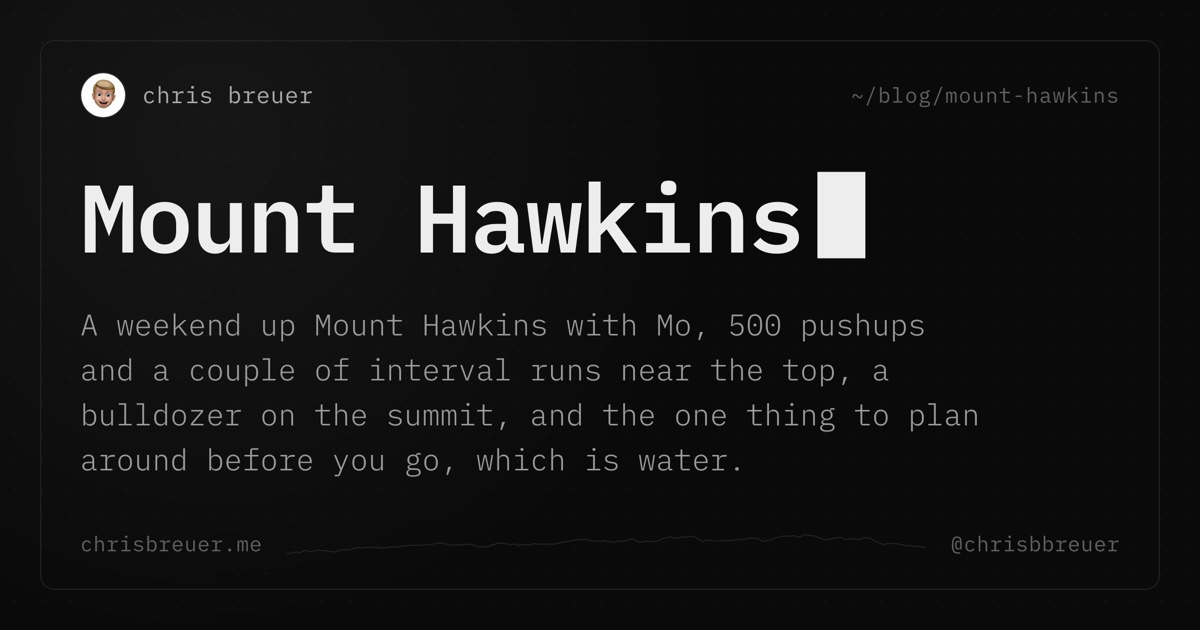
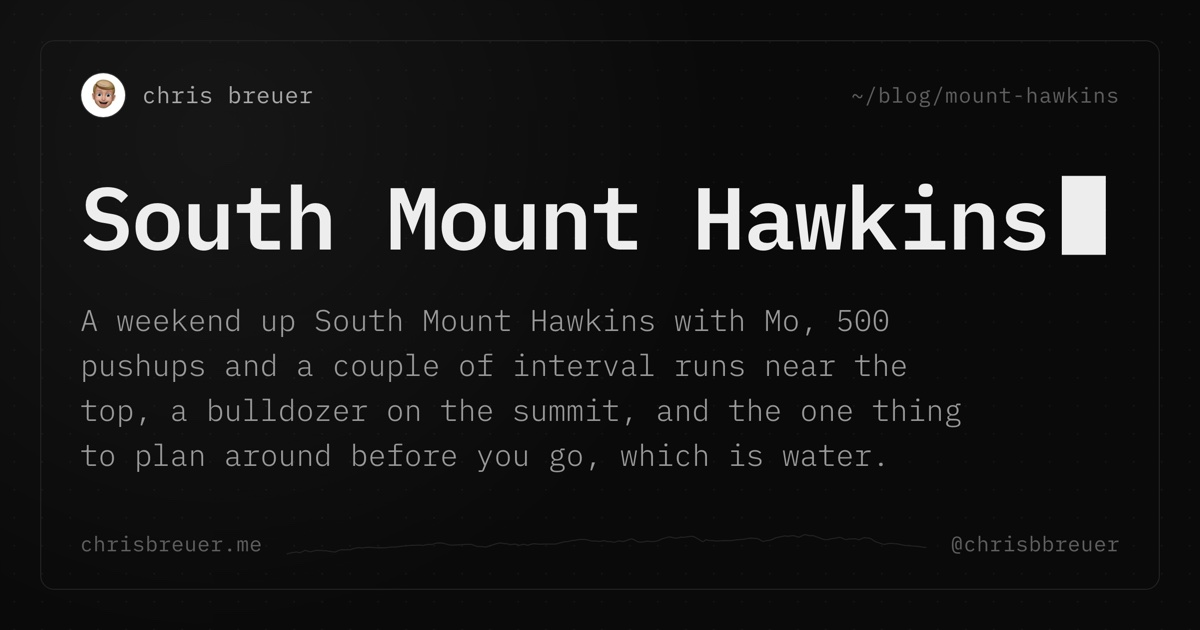
fix(blog): it was South Mount Hawkins
The watch's high point was 7,780 ft, which is South Mount Hawkins
(7,783 ft), not Mount Hawkins (8,850 ft). The post, its share card and the
home page entry say so now; the URL stays /blog/mount-hawkins.

Share-card titles past 16 characters now shrink to fit one line instead of
wrapping into the description.

diff --git a/scripts/build-og.ts b/scripts/build-og.ts
@@ -70,7 +70,11 @@ function titleSize(t: string): number {
     return 132
   if (t.length <= 9)
     return 120
-  return 96
+  if (t.length <= 16)
+    return 96
+  // Lilex is about 0.6em a character, and the title has ~1040px: past 16
+  // characters 96px wraps ("South Mount Hawkins" is 19).
+  return Math.max(56, Math.floor(1040 / (t.length * 0.62)))
 }
 
 function html(c: Card): string {

diff --git a/content/blog/mount-hawkins.md b/content/blog/mount-hawkins.md
@@ -1,12 +1,12 @@
 ---
-title: Mount Hawkins
-description: A weekend up Mount Hawkins with Mo, 500 pushups and a couple of interval runs near the top, a bulldozer on the summit, and the one thing to plan around before you go, which is water.
+title: South Mount Hawkins
+description: A weekend up South Mount Hawkins with Mo, 500 pushups and a couple of interval runs near the top, a bulldozer on the summit, and the one thing to plan around before you go, which is water.
 date: 2026-09-27
 author: Chris Breuer
 authorBio: Software engineer, founder of Stacks, ultra skyrunner. Los Angeles based.
 ---
 
-We just got back from Mount Hawkins in the San Gabriels. Mo came along, and I turned the top of the mountain into a gym for a while.
+We just got back from South Mount Hawkins in the San Gabriels. Mo came along, and I turned the top of the mountain into a gym for a while.
 
 ![Late sunlight turning the high ridge to the east orange, with a pine and a bush of yellow wildflowers lit up in the foreground](/images/blog/mount-hawkins/img-6412-lg.avif)
 
